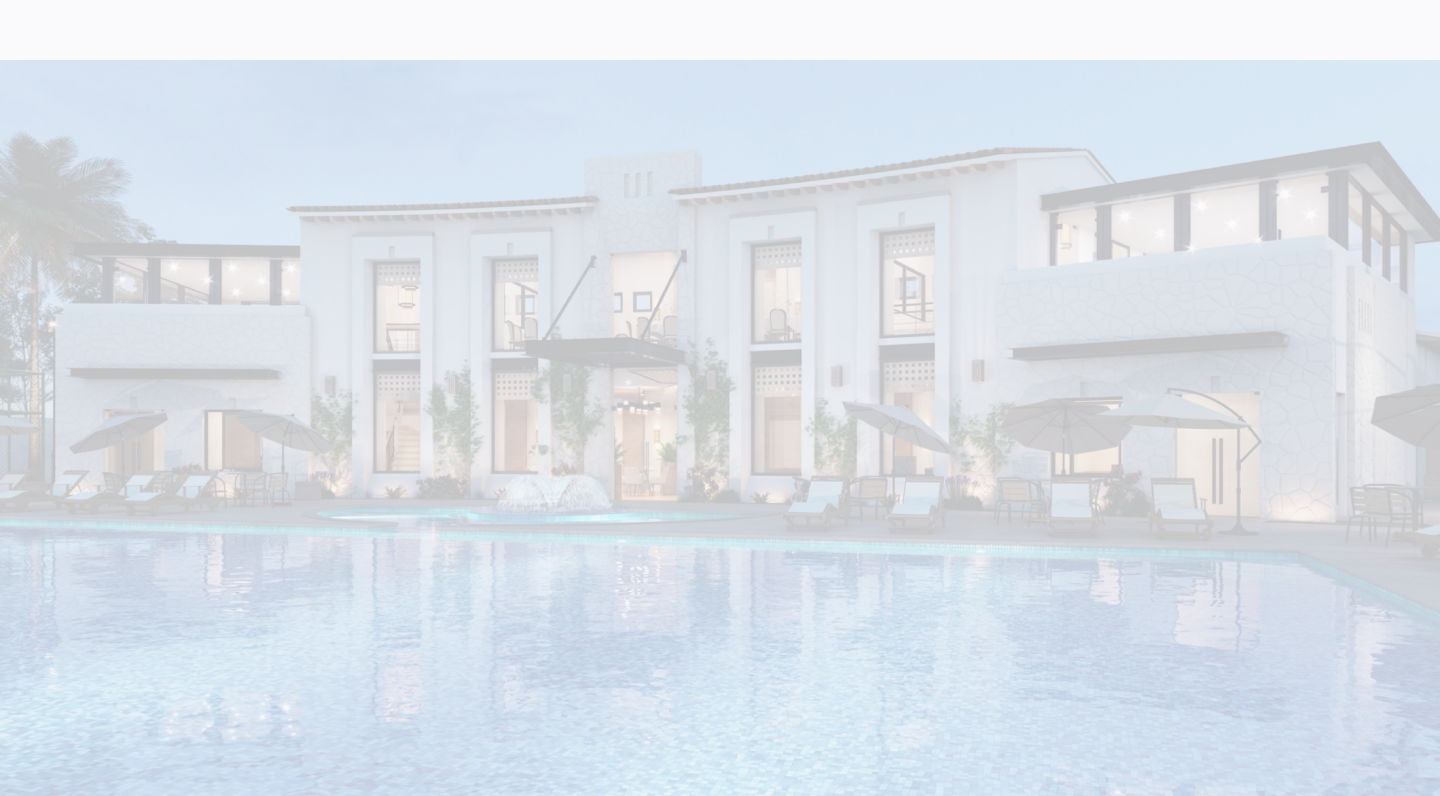
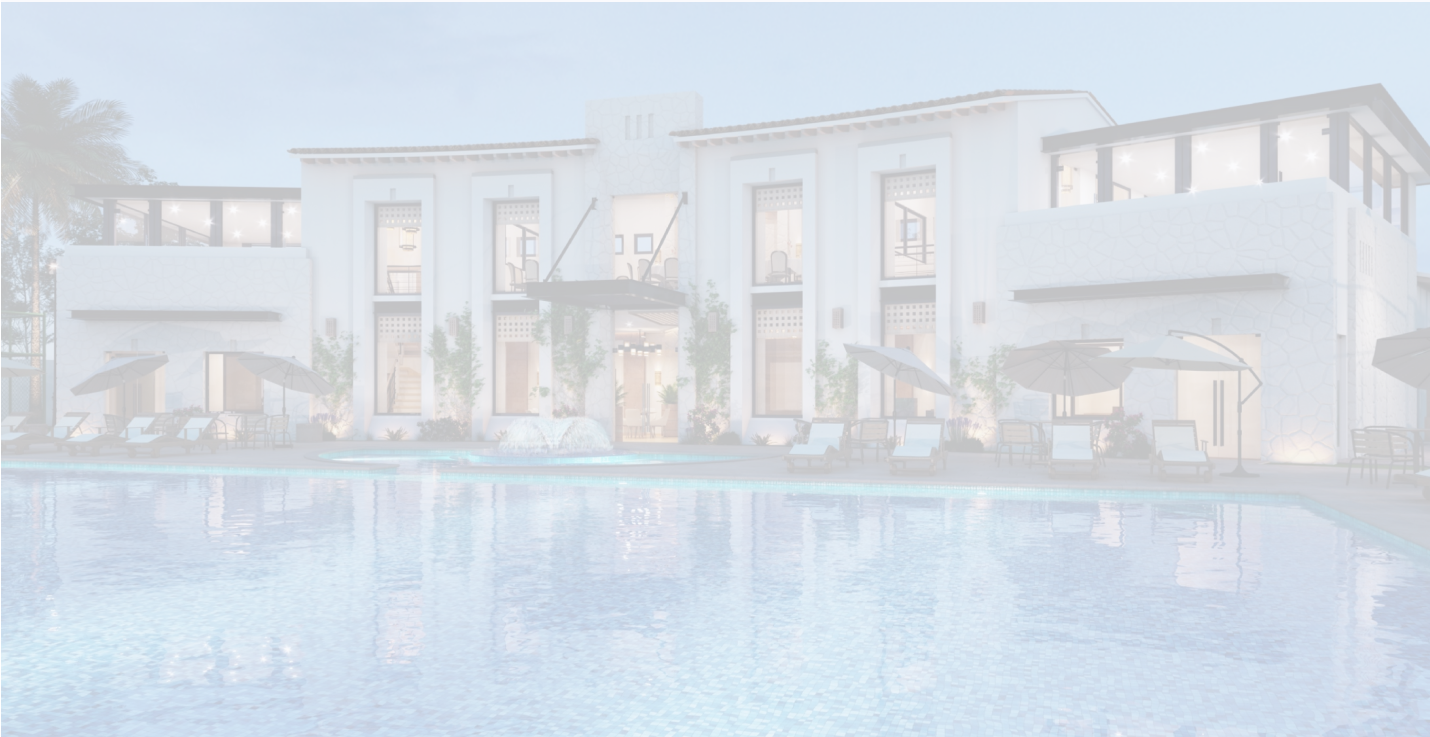
1

diff --git a/index.html b/index.html
@@ -18,10 +18,11 @@
                     <img src="assets/svg/ESTATE.svg" alt="">
             </div>
                 <ul class="list_menu">
-                    <li class="textp_15 ml30">Listings</li>
-                    <li class="textp_15 ml30">Newsroom</li>
-                    <li class="textp_15 ml30">Contact</li>
-                    <li class="textp_15 ml30">Our team</li>
+                   
+                    <li><a href="" class="textp_15 ml30">Listings</a></li>
+                    <li><a href="" class="textp_15 ml30">Newsroom</a></li>
+                    <li><a href="" class="textp_15 ml30">Contact</a></li>
+                    <li><a href="" class="textp_15 ml30">Our team</a></li>
                 </ul>
             </div>
         </div>
@@ -33,8 +34,8 @@
                     <img class="pic_1" src="assets/svg/Estate-Logotype-Color.svg" alt="">
                     <p class="text_32">We're here to help you find a new home.</p>
             </div>
-            <div class="arrow_rectangle">
-                <img src="assets/svg/rectangle_sc1.svg" alt="">
+            <div class="arrow_rectangle_cont">
+                <img class="arrow_rectangle" src="assets/svg/rectangle_sc1.svg" alt="">
             </div>
             </div>
         </div>
@@ -65,9 +66,54 @@
                 <div class="text_sc3">
                     <p class="text_14 beige">Our requirements</p>
                     <p class="text36">How we choose our listings.</p>
-                    <div class="text18 w561_2">Lorem ipsum dolor sit amet, consectetur adipiscing elit. Nullam scelerisque aliquam odio et faucibus.</div>
+                    <div class="text_center_s3">
+                        <p class="text18 w561_2">Lorem ipsum dolor sit amet, consectetur adipiscing elit. Nullam scelerisque aliquam odio et faucibus.</div> </p>
                 </div>
-                
+                <div class="intro_s3">
+                    <div class="pic_s3">
+                        <img src="assets/img/card.png" alt="">
+                    </div>
+                    <div class="info_icon">
+                        <div class="icon_infos3">
+                            <div class="name_position">
+                                <p class="text16 up_tx">Stellar locations</p>
+                                <p class="textfake12 lw_tx">Lorem ipsum dolor sit amet, consectetur adipiscing elit.</p>
+                            </div>
+                        </div>
+                        <div class="icon_infos3">
+                            <div class="name_position">
+                                <p class="text16 up_tx">High quality builds</p>
+                                <p class="textfake12 lw_tx">Lorem ipsum dolor sit amet, consectetur adipiscing elit.</p>
+                            </div>
+                        </div>
+                        <div class="icon_infos3">
+                            <div class="name_position">
+                                <p class="text16 up_tx">Expert interior design</p>
+                                <p class="textfake12 lw_tx">Lorem ipsum dolor sit amet, consectetur adipiscing elit.r</p>
+                            </div>
+                        </div>
+
+                    </div>
+                </div>
+            </div>
+        </div>
+    </section>
+    <section class="section4">
+        <div class="container">
+            <div class="wrapper_container4">
+            </div>
+        </div>
+    </section>
+    <section class="section5">
+        <div class="container">
+            <div class="wrapper_section5">
+                <div class="text_sc5">
+                    <p class="text14 beige">Current listings</p>
+                    <p class="text36">What we have in store for you.</p> 
+                    <p class="text18 w574">Morbi neque ex, condimentum dapibus congue et, vulputate ut ligula. Vestibulum sit amet urna turpis. Mauris euismod elit et nisi ultrices, ut faucibus orci tincidunt.    </p>
+                    </div>
+                    
+                </div>
             </div>
         </div>
     </section>

diff --git a/assets/css/style.css b/assets/css/style.css
@@ -24,7 +24,12 @@
 body{
     font-family: "Poppins";
 }
-
+li{
+    list-style: none;
+}
+a{
+    text-decoration: none;
+}
 /*header*/
 
 .wrapper_header{
@@ -36,10 +41,17 @@ body{
 .list_menu{
     display: flex;
     align-items: center;
+  
 }
 
 .ml30{
+    color: #444444;
     margin-left: 30px;
+    transition: 0.4s;
+}
+
+.ml30:hover{
+    color: #FF8A63;
 }
 
 .pt15{
@@ -48,26 +60,26 @@ body{
 
 /*section1*/
 
+.section1{
+    height: 738px;
+    background: url("../img/intro.png") no-repeat center center / cover;
+}
 
 .wrapper_section1{
-height: 800px;
-background-image: url(../img/intro.png);
-display: flex;
-flex-direction: column;
-
-
+    display: flex;
+    justify-content: center;
+    flex-direction: column;
 }
 
 
 .place_center{
     display: flex;
-    justify-content: center;
     align-items: center;
     flex-direction: column;
 }
 
 .hight_s1{
-    height: 800px;
+    padding-bottom: 75px;
 }
 
 .text_32{
@@ -83,7 +95,6 @@ margin-top: 20px;
 
 .rectangle_sc1{
     display: flex;
-    align-items:flex-start;
     width: 64px;
     height: 64px;
 }
@@ -93,6 +104,12 @@ margin-top: 20px;
     height: 64px;
     display: flex;
     justify-content: center;
+}
+.arrow_rectangle{
+    width: 1200px;
+    display: flex;
+    justify-content: center;
+    margin: 0 auto;
 }
 
 
@@ -104,6 +121,7 @@ margin-top: 20px;
     display: flex;
     align-items: center;
     justify-content: space-around;
+    background-color:#FAFAFC
 
 }
 
@@ -165,6 +183,7 @@ margin-top: 20px;
 .circle_person{
    display: flex;
    align-items: center;
+   padding-top: 19px;
 }
 
 .name_position{
@@ -186,6 +205,7 @@ margin-top: 20px;
 
     padding-top: 200px;
     height: 732px;
+    padding-bottom: 44px;
 
 }
 
@@ -200,10 +220,123 @@ margin-top: 20px;
 
 .text_sc3{
     text-align: center;
+    width: 1440px;
+}
+
+.text18{
+    font-size: 18px;
+    line-height: 22px;
+    text-align: center;
+    color: #6F7278;
+
 }
 
 .w561_2{
     width: 561px;
     height: 44px;
-    text-align: center;
+    
 }
+
+.text_center_s3{
+    max-width: 100%;
+    display: flex;
+    justify-content: center;
+    padding-top: 11px;
+}
+
+.icon_infos3{
+    align-items: center;
+    width: 360px;
+    height: 167px;
+    padding-top: 20px;
+    
+}
+
+.icon_infos3:before{
+    content: "";
+    background-image: url(../svg/icon3.svg);
+    background-repeat: no-repeat;
+    display: block;
+    width: 48px;
+    height: 48px;
+}
+
+.icon_infos3:before{
+    content: "";
+    background-image: url(../svg/icon2.svg);
+    background-repeat: no-repeat;
+    display: block;
+    width: 48px;
+    height: 48px;
+}
+
+.icon_infos3:before{
+    content: "";
+    background-image: url(../svg/icon1.svg);
+    background-repeat: no-repeat;
+    display: block;
+    width: 48px;
+    height: 48px;
+    padding-top: 10px;
+}
+
+.intro_s3{
+    display: flex;
+    justify-content: space-between;
+    width: 850px;
+    margin: 0 auto;
+    padding-top: 29px;
+}
+
+.up_tx{
+    font-weight: 400;
+    font-size: 14px;
+    line-height: 20px;
+    letter-spacing: 2px;
+    text-transform: uppercase;
+    color: #45525B;
+    
+}
+
+.lw_tx{
+ 
+    font-weight: 400;
+    font-size: 14px;
+    line-height: 20px;
+    color: #6F7278;
+    text-transform: none;
+    
+}
+
+.info_icon{
+    width: 300px;
+    height: 561px;
+    padding-top: 19px;
+    margin-right: 32px;
+}
+
+
+.wrapper_section4{
+  
+}
+
+.section4{
+    background: url("../img/intro2.png") no-repeat center center / cover;
+    height: 600px;
+  
+}
+
+
+.wrapper_section5{
+    padding-top: 44px;
+    height: 1204px;
+    margin: 0 auto;
+
+}
+
+.w574{
+    width: 574px;
+    text-align: left;
+    padding-top: 11px;      
+}
+
